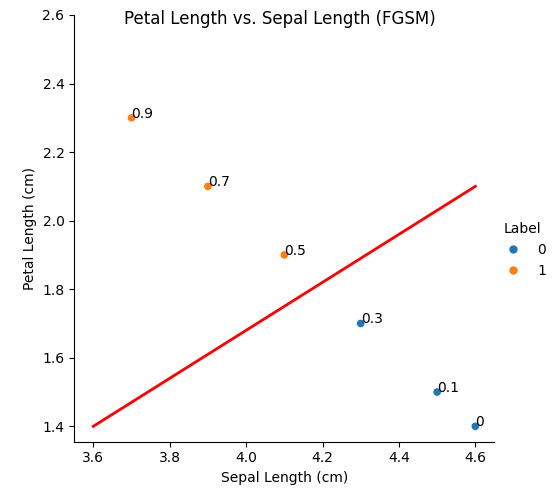
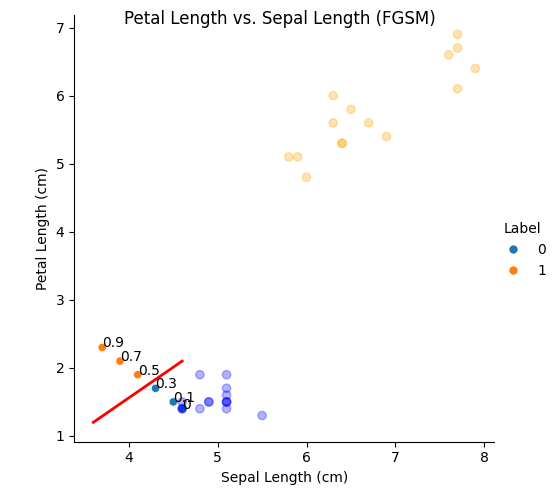
Tabular adversarial graph has now clusters of data test set.

diff --git a/pipeline/aml/adversarial_tabular_data.py b/pipeline/aml/adversarial_tabular_data.py
@@ -8,17 +8,16 @@ import json
 import pandas as pd
 import torch
 
+import matplotlib
 import matplotlib.pyplot as plt
 import seaborn as sns
 
 from models.qml_models import define_model
-from datasets.fetch_data import fetch_dataset, Dataset
+from datasets.fetch_data import fetch_dataset
 from training.lightning_utils import QMLModel, threshold
 
 from cleverhans.torch.attacks.fast_gradient_method import fast_gradient_method
-from cleverhans.torch.attacks.projected_gradient_descent import projected_gradient_descent
 
-# TODO: Check if ranges are really correct
 epsilons = [0.1, 0.3, 0.5, 0.7, 0.9]
 dataset = "iris"
 qml_model = "pqc"
@@ -35,8 +34,6 @@ for filename in os.listdir(directory):
 
 # Retrieve preprocessed test dataset according to the config
 _, X_test, _, Y_test = fetch_dataset(config["dataset"], path="../datasets")
-test_set = Dataset(X_test, Y_test)
-print(test_set)
 
 qnode, _ = define_model(config)
 model = QMLModel(qnode, weights, config)
@@ -73,13 +70,15 @@ for epsilon in epsilons:
 
 plot = sns.relplot(data=df, x='Sepal Length (cm)', y='Petal Length (cm)', hue='Label')
 plot.figure.suptitle('Petal Length vs. Sepal Length (FGSM)')
-plt.plot([3.6, 4.6], [1.4, 2.1], linewidth=2, color='r')
+plt.plot([3.6, 4.6], [1.2, 2.1], linewidth=2, color='r')
+colors=["blue", "orange"]
+plt.scatter(x=X_test[:,0], y=X_test[:,2], alpha=0.3, c=Y_test, cmap=matplotlib.colors.ListedColormap(colors))
 labels = [0] + epsilons 
 labels.reverse()
 for i, eps in enumerate(labels):
     plt.annotate(eps, (df.iloc[i,0], df.iloc[i,2]))
 ax = plt.gca()
-ax.set_ylim([None, 2.6])
+#ax.set_ylim([None, 2.6])
 plt.savefig(samples_path+'/tabular-adversarial.png')
 datafile = dataset+'-'+qml_model
 df.to_csv(samples_path+'/'+datafile+'.csv', sep='\t', index=False)
